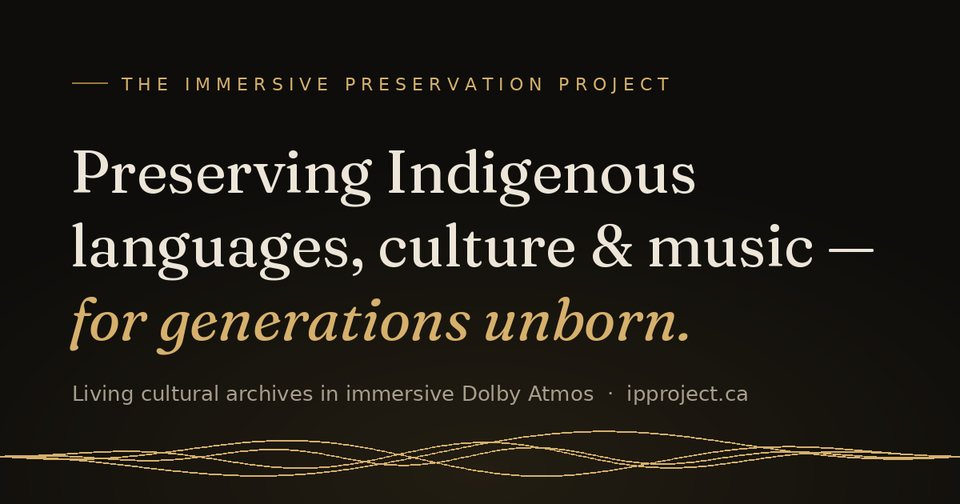
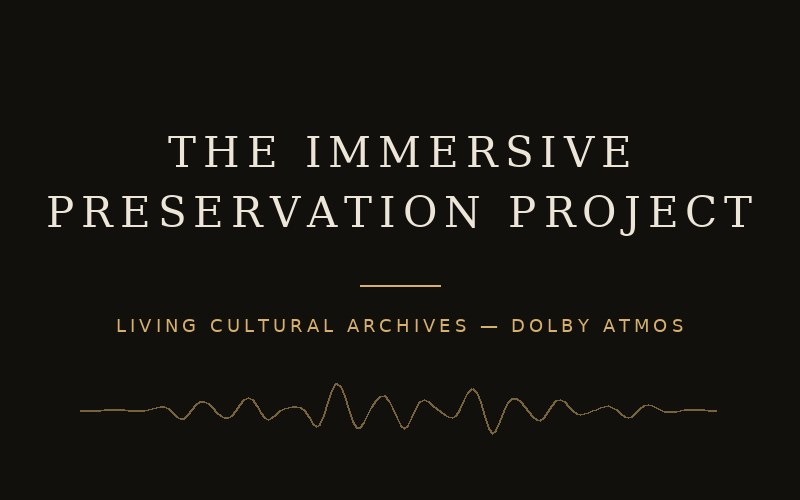
Add files via upload

diff --git a/index.html b/index.html
@@ -4,7 +4,7 @@
 <meta charset="UTF-8">
 <meta name="viewport" content="width=device-width, initial-scale=1.0">
 <title>Jamie Kuse — Audio Engineer & Producer</title>
-<meta name="description" content="Jamie Kuse is a multiple Juno Award-winning audio engineer and producer, and co-founder of the Emmy Award-winning NOVA Studios — one of Canada's premier Dolby Atmos facilities. 750M+ streams worldwide.">
+<meta name="description" content="Jamie Kuse is a multiple Juno Award-winning audio engineer and producer, and co-founder of the Emmy Award-winning NOVA Studios — one of Canada's premier Dolby Atmos facilities. 1 billion+ streams worldwide.">
 <link rel="canonical" href="https://www.jamiekuse.com/">
 <meta property="og:site_name" content="Jamie Kuse">
 <meta property="og:title" content="Jamie Kuse — Audio Engineer & Producer">
@@ -27,7 +27,7 @@
   "url": "https://www.jamiekuse.com/",
   "jobTitle": "Audio Engineer & Producer",
   "email": "[email redacted]",
-  "description": "Multiple Juno Award-winning audio engineer and producer; co-founder of the Emmy Award-winning NOVA Studios, one of Canada's premier Dolby Atmos facilities. Productions have amassed over 750 million streams worldwide.",
+  "description": "Multiple Juno Award-winning audio engineer and producer; co-founder of the Emmy Award-winning NOVA Studios, one of Canada's premier Dolby Atmos facilities. Productions have amassed over 1 billion streams worldwide.",
   "knowsAbout": ["Dolby Atmos", "spatial audio", "music production", "audio engineering", "immersive audio", "Indigenous music"],
   "image": "https://www.jamiekuse.com/jamie-portrait.jpg",
   "award": [
@@ -37,12 +37,12 @@
     "2026 Juno nomination — Nakota Tayhunyabi, YB Nakota",
     "Co-founder of Sports Emmy–winning NOVA Studios"
   ],
-  "founder": {
-    "@type": "Organization",
-    "name": "NOVA Studios",
-    "url": "https://nova-spatial.com"
-  },
-  "sameAs": ["https://nova-spatial.com", "https://www.ipproject.ca"]
+  "founder": [
+    { "@type": "Organization", "name": "NOVA Studios", "url": "https://novastudios.ca" },
+    { "@type": "Organization", "name": "NOVA Post", "url": "https://novapost.ca" },
+    { "@type": "Organization", "name": "The Immersive Preservation Project", "url": "https://www.ipproject.ca" }
+  ],
+  "sameAs": ["https://novastudios.ca", "https://novapost.ca", "https://nova-spatial.com", "https://www.ipproject.ca"]
 }
 </script>
 <link rel="preconnect" href="https://fonts.googleapis.com">
@@ -75,10 +75,10 @@
 
   /* ---------- Hero ---------- */
   header {
-    min-height: 88vh;
+    min-height: 72vh;
     display: flex; flex-direction: column; justify-content: center; align-items: center;
     text-align: center;
-    padding: 96px 0 64px;
+    padding: 88px 0 56px;
   }
   .cred, .hero-links { justify-content: center; }
   .cred-item { text-align: left; }
@@ -125,7 +125,7 @@
   /* ---------- Sections ---------- */
   section { border-top: 1px solid var(--line); padding: 72px 0; }
   h2 {
-    font-size: 12px; letter-spacing: 0.22em; text-transform: uppercase;
+    font-size: 14px; letter-spacing: 0.22em; text-transform: uppercase;
     color: var(--accent); font-weight: 500; margin-bottom: 40px;
   }
   h2::after {
@@ -159,7 +159,19 @@
     border: 1px solid rgba(216, 207, 186, 0.30);
     border-radius: 999px;
     padding: 5px 14px 5px 12px; margin-top: 11px;
+    transition: border-color 0.3s, background 0.3s, box-shadow 0.3s;
   }
+  .item:hover .badge {
+    border-color: rgba(216, 207, 186, 0.55);
+    background: rgba(216, 207, 186, 0.11);
+    box-shadow: 0 0 18px rgba(216, 207, 186, 0.10);
+  }
+  a.item { text-decoration: none; color: inherit; }
+  a.item h3 .ext {
+    color: var(--faint); font-size: 15px; margin-left: 9px;
+    display: inline-block; transition: color 0.25s, transform 0.25s;
+  }
+  a.item:hover h3 .ext { color: var(--accent); transform: translate(2px, -2px); }
   .item .what .badge::before {
     content: ''; width: 5px; height: 5px; flex: none;
     background: var(--accent); transform: rotate(45deg);
@@ -189,6 +201,10 @@
   }
 
   /* Ventures */
+  .section-sub {
+    font-size: 15px; color: var(--dim); max-width: 54ch;
+    margin: -24px 0 16px;
+  }
   .venture {
     display: flex; gap: 32px; align-items: center;
     text-decoration: none; color: inherit;
@@ -222,7 +238,35 @@
     transition: border-color 0.25s, color 0.25s;
   }
   .contact a.email:hover { border-color: var(--accent); color: #fff; }
-  .contact p { font-size: 14px; color: var(--faint); margin-top: 18px; }
+  .contact-lede { font-size: 16px; color: var(--text); margin-bottom: 16px; }
+  .services { display: flex; gap: 10px; flex-wrap: wrap; margin-bottom: 34px; }
+  .chip {
+    font-size: 11px; letter-spacing: 0.14em; text-transform: uppercase;
+    color: var(--accent); font-weight: 500;
+    background: rgba(216, 207, 186, 0.07);
+    border: 1px solid rgba(216, 207, 186, 0.30);
+    border-radius: 999px; padding: 5px 14px;
+  }
+  .cform { margin-top: 40px; max-width: 520px; display: flex; flex-direction: column; gap: 12px; }
+  .cform .row { display: flex; gap: 12px; }
+  .cform input, .cform textarea {
+    width: 100%; background: rgba(232, 230, 225, 0.04);
+    border: 1px solid var(--line); border-radius: 3px;
+    color: var(--text); font-family: var(--sans); font-size: 14.5px; font-weight: 300;
+    padding: 12px 14px; outline: none; resize: vertical;
+    transition: border-color 0.2s;
+  }
+  .cform input:focus, .cform textarea:focus { border-color: var(--accent); }
+  .cform input::placeholder, .cform textarea::placeholder { color: var(--faint); }
+  .cform button {
+    align-self: flex-start; cursor: pointer;
+    font-family: var(--sans); font-size: 12px; letter-spacing: 0.14em; text-transform: uppercase; font-weight: 600;
+    color: #131210; background: var(--accent); border: none; border-radius: 2px;
+    padding: 12px 26px; margin-top: 4px;
+    transition: background 0.2s;
+  }
+  .cform button:hover { background: #fff; }
+  @media (max-width: 520px) { .cform .row { flex-direction: column; } }
 
   footer {
     border-top: 1px solid var(--line);
@@ -247,7 +291,7 @@
   <header>
     <p class="kicker">Audio Engineer &amp; Producer — Vancouver, Canada</p>
     <h1 class="wordmark"><img src="jamie-kuse-logo-web.png" alt="Jamie Kuse" onerror="this.parentNode.classList.add('no-img'); this.parentNode.innerHTML='Jamie<br>Kuse';"></h1>
-    <p class="sub">Multiple Juno Award–winning engineer and producer with twenty years behind the console. Co-founder of the Emmy Award–winning <strong>NOVA Studios</strong>, one of Canada's premier Dolby Atmos facilities. <strong>750&nbsp;million+</strong> streams worldwide.</p>
+    <p class="sub">Multiple Juno Award–winning engineer and producer with over two decades of industry experience. Co-founder of the Emmy Award–winning <strong>NOVA Studios</strong>, one of Canada's premier Dolby Atmos facilities. <strong>1&nbsp;billion+</strong> streams worldwide.</p>
     <div class="cred">
       <div class="cred-item">
         <img src="juno-statue.svg" alt="JUNO Awards" onerror="this.style.display='none'">
@@ -259,40 +303,40 @@
       </div>
     </div>
     <div class="hero-links">
-      <a href="#work">Selected Work</a>
+      <a href="#work">Highlights</a>
       <a href="#contact">Contact</a>
     </div>
   </header>
 
   <section id="work">
-    <h2>Selected Work</h2>
-    <div class="item">
+    <h2>Highlights</h2>
+    <a class="item" href="https://www.instagram.com/reel/DZcyomZSvpZ/" target="_blank" rel="noopener">
       <div class="year">2026</div>
       <div class="thumb"><img class="mark" src="fifa-logo.svg" alt="FIFA" onerror="this.style.display='none'"></div>
       <div class="what">
-        <h3>Canada × FIFA — World Cup 26</h3>
+        <h3>Canada × FIFA — World Cup 26<span class="ext">↗</span></h3>
         <p>Official Canada × FIFA music for broadcast and live events at the 2026 FIFA World Cup.</p>
         <span class="badge">Official Broadcast &amp; Live Event Music</span>
       </div>
-    </div>
-    <div class="item">
+    </a>
+    <a class="item" href="https://music.apple.com/ca/album/nakota-tayhunyabi/1841257968" target="_blank" rel="noopener">
       <div class="year">2026</div>
       <div class="thumb"><img class="mark tall" src="juno-statue.svg" alt="JUNO Awards" onerror="this.style.display='none'"></div>
       <div class="what">
-        <h3>Nakota Tayhunyabi — YB Nakota</h3>
+        <h3>Nakota Tayhunyabi — YB Nakota<span class="ext">↗</span></h3>
         <p>The first Indigenous language preservation and ceremony album ever captured in Dolby Atmos — recorded, mixed, and produced at NOVA Studios.</p>
         <span class="badge">Juno Award Nominee, 2026</span>
       </div>
-    </div>
-    <div class="item">
+    </a>
+    <a class="item" href="https://open.spotify.com/album/7445IRz5iyAR4DLwkZJD5a" target="_blank" rel="noopener">
       <div class="year">2025</div>
       <div class="thumb"><img class="art" src="redfuture-thumb.jpg" alt="Red Future album cover" onerror="this.style.display='none'"></div>
       <div class="what">
-        <h3>Red Future — Snotty Nose Rez Kids</h3>
+        <h3>Red Future — Snotty Nose Rez Kids<span class="ext">↗</span></h3>
         <p>Recording and mix engineer, and producer on tracks including the title track "RED FUTURE" — with collaborations from Jeremy Dutcher, Tia Wood, Sebastian Gaskin, Drezus, and Aysanabee.</p>
         <span class="badge">Juno Award — Rap Album of the Year, 2025</span>
       </div>
-    </div>
+    </a>
     <div class="item">
       <div class="year">2023</div>
       <div class="thumb"><img class="mark tall" src="emmy-logo.svg" alt="Sports Emmy Awards" onerror="this.style.display='none'"></div>
@@ -302,6 +346,15 @@
         <span class="badge">Sports Emmy Nominee — Esports Championship Coverage</span>
       </div>
     </div>
+    <a class="item" href="https://vimeo.com/1119238908" target="_blank" rel="noopener">
+      <div class="year">2025</div>
+      <div class="thumb"><img class="art" src="porsche-thumb.jpg" alt="Porsche Taycan commercial" onerror="this.style.display='none'"></div>
+      <div class="what">
+        <h3>Porsche Taycan — Luxury Campaign<span class="ext">↗</span></h3>
+        <p>Sound design for the acclaimed Porsche Taycan spot, delivered through NOVA Post.</p>
+        <span class="badge">Commercial Sound Design</span>
+      </div>
+    </a>
     <div class="item">
       <div class="year">2017</div>
       <div class="thumb"><img class="mark" src="netflix-logo.svg" alt="Netflix" onerror="this.style.display='none'"></div>
@@ -317,8 +370,8 @@
     <h2>About</h2>
     <div class="about-grid">
       <div class="bio">
-        <p>Jamie Kuse is an audio engineer and producer with twenty years behind the console. His work spans commercial releases, global broadcast, and live events — from Juno Award–winning albums to the world stage of FIFA and Valve's The International — with productions amassing over 750 million streams worldwide.</p>
-        <p>He is the co-founder of the Emmy Award–winning <strong>NOVA Studios</strong>, one of Canada's premier Dolby Atmos facilities, and of <em>The Immersive Preservation Project</em> — future-proofing language and culture through archive-grade immersive recording.</p>
+        <p>Jamie Kuse is an audio engineer and producer with over two decades of industry experience. His work spans commercial releases, global broadcast, and live events — from Juno Award–winning albums to the world stage of FIFA and Valve's The International — with productions amassing over 1 billion streams worldwide.</p>
+        <p>He is the co-founder of the Emmy Award–winning <strong>NOVA Studios</strong>, one of Canada's premier Dolby Atmos facilities; <strong>NOVA Post</strong>, whose client roster spans Google, Nintendo, Valve, and Porsche; and <em>The Immersive Preservation Project</em> — future-proofing language and culture through archive-grade immersive recording.</p>
       </div>
       <figure class="portrait">
         <img src="jamie-portrait.jpg" loading="lazy" alt="Jamie Kuse at NOVA Studios" onerror="this.parentNode.style.display='none'">
@@ -329,11 +382,26 @@
 
   <section id="ventures">
     <h2>Ventures</h2>
-    <a class="venture" href="https://nova-spatial.com" target="_blank" rel="noopener">
+    <p class="section-sub">Co-founder of a family of companies spanning the audio industry — from recording to post-production to immersive archives.</p>
+    <a class="venture" href="https://novastudios.ca" target="_blank" rel="noopener">
       <div class="vimg"><img src="nova-wide.jpg" loading="lazy" alt="NOVA Studios — Dolby Atmos control room" onerror="this.parentNode.style.display='none'"></div>
       <div class="vbody">
-        <div class="name">NOVA Studios <span>nova-spatial.com</span> <span class="arrow">→</span></div>
-        <p>Co-founder of the Emmy Award–winning studio — one of Canada's premier Dolby Atmos facilities. Mixing, mastering, and immersive production for artists and labels across North America.</p>
+        <div class="name">NOVA Studios <span>novastudios.ca</span> <span class="arrow">→</span></div>
+        <p>The Emmy Award–winning recording facility — one of Canada's premier Dolby Atmos studios, serving artists and labels across North America.</p>
+      </div>
+    </a>
+    <a class="venture" href="https://novapost.ca" target="_blank" rel="noopener">
+      <div class="vimg"><img src="novapost-card.jpg" loading="lazy" alt="NOVA Post — post production" onerror="this.parentNode.style.display='none'"></div>
+      <div class="vbody">
+        <div class="name">NOVA Post <span>novapost.ca</span> <span class="arrow">→</span></div>
+        <p>Post-production for film, TV, and commercial — sound, picture, and colour. Clients include Google, Nintendo, Valve, Porsche, Range Rover, and Destination Canada.</p>
+      </div>
+    </a>
+    <a class="venture" href="https://nova-spatial.com" target="_blank" rel="noopener">
+      <div class="vimg"><img src="novaspatial-card.jpg" loading="lazy" alt="NOVA Spatial — immersive audio" onerror="this.parentNode.style.display='none'"></div>
+      <div class="vbody">
+        <div class="name">NOVA Spatial <span>nova-spatial.com</span> <span class="arrow">→</span></div>
+        <p>Industry leaders in immersive audio — Dolby Atmos mixing for artists and labels, bookable online today.</p>
       </div>
     </a>
     <a class="venture" href="https://www.ipproject.ca" target="_blank" rel="noopener">
@@ -347,13 +415,29 @@
 
   <section id="contact" class="contact">
     <h2>Contact</h2>
+    <p class="contact-lede">Available for select projects and partnerships:</p>
+    <div class="services">
+      <span class="chip">Mixing</span>
+      <span class="chip">Mastering</span>
+      <span class="chip">Dolby Atmos</span>
+      <span class="chip">Production</span>
+    </div>
     <a class="email" href="mailto:[email redacted]">[email redacted]</a>
-    <p>Production, mixing, Atmos, and partnership inquiries.</p>
+    <form class="cform" action="https://formsubmit.co/[email redacted]" method="POST">
+      <input type="hidden" name="_subject" value="Inquiry via jamiekuse.com">
+      <input type="text" name="_honey" style="display:none">
+      <div class="row">
+        <input type="text" name="name" placeholder="Name" required>
+        <input type="email" name="email" placeholder="Email" required>
+      </div>
+      <textarea name="message" rows="4" placeholder="Tell me about your project…" required></textarea>
+      <button type="submit">Send Inquiry</button>
+    </form>
   </section>
 
   <footer>
     <div>© 2026 Jamie Kuse</div>
-    <div><a href="https://nova-spatial.com" target="_blank" rel="noopener">NOVA Studios</a> &nbsp;·&nbsp; <a href="https://www.ipproject.ca" target="_blank" rel="noopener">IPP</a></div>
+    <div><a href="https://novastudios.ca" target="_blank" rel="noopener">NOVA Studios</a> &nbsp;·&nbsp; <a href="https://novapost.ca" target="_blank" rel="noopener">NOVA Post</a> &nbsp;·&nbsp; <a href="https://nova-spatial.com" target="_blank" rel="noopener">NOVA Spatial</a> &nbsp;·&nbsp; <a href="https://www.ipproject.ca" target="_blank" rel="noopener">IPP</a></div>
   </footer>
 
 </div>